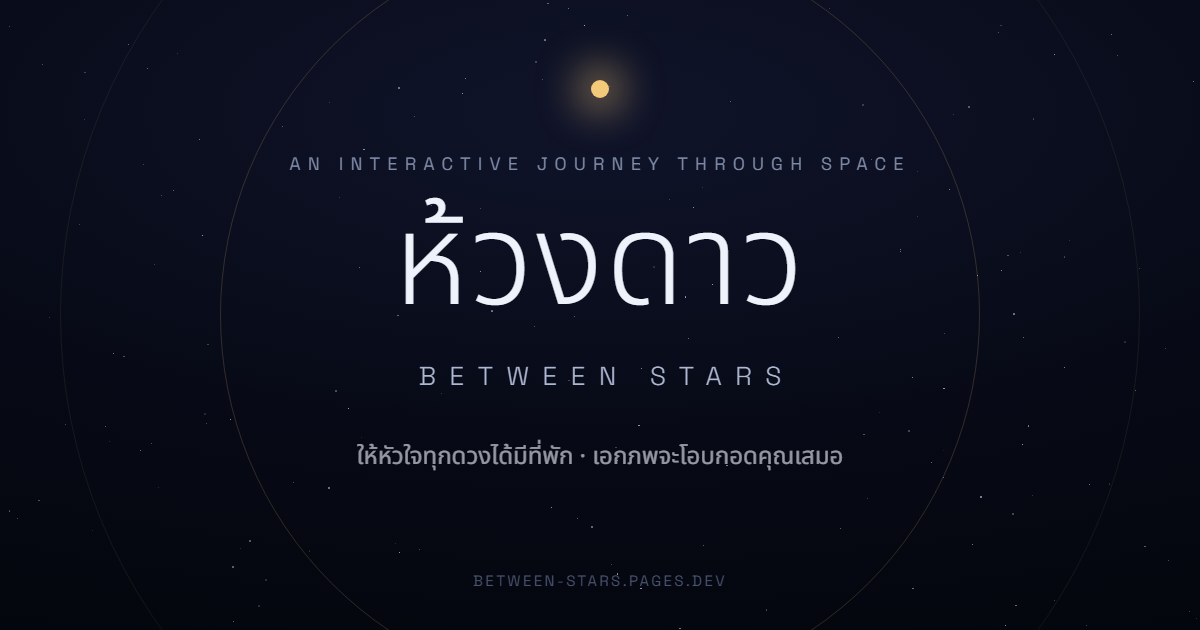
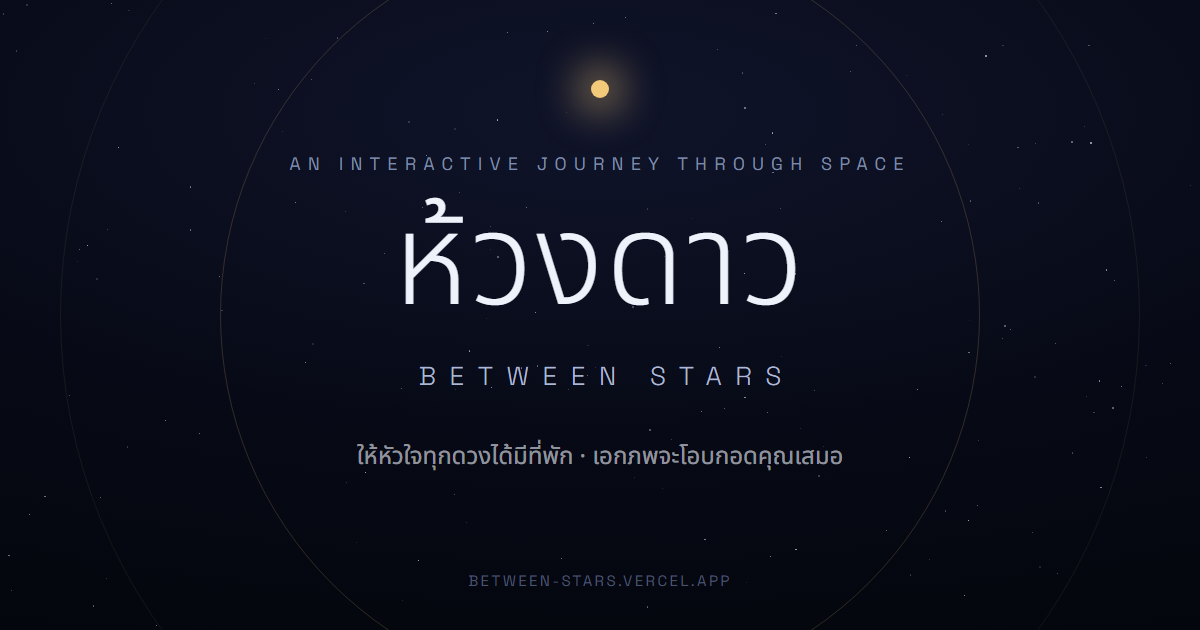
Add files via upload

diff --git a/index.html b/index.html
@@ -5,21 +5,21 @@
 <meta name="viewport" content="width=device-width, initial-scale=1.0">
 <title>ห้วงดาว · Between Stars</title>
 <meta name="description" content="ห้วงดาว — พาคุณออกไปสัมผัสอวกาศ: ระบบสุริยะที่อิงตำแหน่งดาวจริง เรื่องราวการเดินทางของมนุษย์ และพื้นที่ให้หัวใจทุกดวงได้พัก">
-<link rel="canonical" href="https://between-stars.pages.dev/">
+<link rel="canonical" href="https://between-stars.vercel.app/">
 <!-- Open Graph / Twitter — อัปเดต URL หลัง deploy จริงบน Cloudflare Pages -->
 <meta property="og:type" content="website">
 <meta property="og:site_name" content="ห้วงดาว · Between Stars">
 <meta property="og:title" content="ห้วงดาว · Between Stars">
 <meta property="og:description" content="ให้หัวใจทุกดวงได้มีที่พัก — ไม่ว่ายังไง เอกภพก็จะโอบกอดคุณเสมอ">
-<meta property="og:url" content="https://between-stars.pages.dev/">
-<meta property="og:image" content="https://between-stars.pages.dev/og-image.png">
+<meta property="og:url" content="https://between-stars.vercel.app/">
+<meta property="og:image" content="https://between-stars.vercel.app/og-image.png">
 <meta property="og:image:width" content="1200">
 <meta property="og:image:height" content="630">
 <meta property="og:locale" content="th_TH">
 <meta name="twitter:card" content="summary_large_image">
 <meta name="twitter:title" content="ห้วงดาว · Between Stars">
 <meta name="twitter:description" content="ให้หัวใจทุกดวงได้มีที่พัก — ไม่ว่ายังไง เอกภพก็จะโอบกอดคุณเสมอ">
-<meta name="twitter:image" content="https://between-stars.pages.dev/og-image.png">
+<meta name="twitter:image" content="https://between-stars.vercel.app/og-image.png">
 <meta name="theme-color" content="#04060d">
 <link rel="icon" type="image/svg+xml" href="favicon.svg">
 <link rel="apple-touch-icon" href="favicon.svg">

diff --git a/solar-system.html b/solar-system.html
@@ -13,13 +13,13 @@
 <meta property="og:site_name" content="ห้วงดาว · Between Stars">
 <meta property="og:title" content="ระบบสุริยะ · ห้วงดาว">
 <meta property="og:description" content="ดาวเคราะห์เคลื่อนตามตำแหน่งจริงของวันนี้ · ตามรอยยานวอยเอเจอร์สู่ห้วงดาว">
-<meta property="og:url" content="https://between-stars.pages.dev/solar-system.html">
-<meta property="og:image" content="https://between-stars.pages.dev/og-image.png">
+<meta property="og:url" content="https://between-stars.vercel.app/solar-system.html">
+<meta property="og:image" content="https://between-stars.vercel.app/og-image.png">
 <meta property="og:image:width" content="1200">
 <meta property="og:image:height" content="630">
 <meta property="og:locale" content="th_TH">
 <meta name="twitter:card" content="summary_large_image">
-<meta name="twitter:image" content="https://between-stars.pages.dev/og-image.png">
+<meta name="twitter:image" content="https://between-stars.vercel.app/og-image.png">
 <link rel="icon" type="image/svg+xml" href="favicon.svg">
 <link rel="apple-touch-icon" href="favicon.svg">
 <link rel="preconnect" href="https://fonts.googleapis.com">